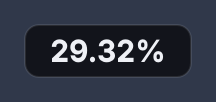
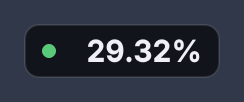
Minimal mode: add the status dot
The percentage pill now shows the same status dot as the full card -
green when tracking confidently, amber when unsure or analysing, grey
while waiting for the game or paused, red on errors - and the tooltip
names the status.

Claude-Session: https://claude.ai/code/session_013ixSXxqaMeMT4BQzsYreYN

Changed region(s): [[0.1667, 0.3824, 0.8333, 0.6176], [0.8333, 0.2353, 0.9167, 0.7647], [0.0833, 0.2353, 0.1667, 0.7647]]

diff --git a/wsync/widget.py b/wsync/widget.py
@@ -309,26 +309,28 @@ class SyncWindow(QWidget):
         f.setBold(True)
         return f
 
-    def _minimal_text(self) -> tuple[str, QColor]:
-        """'12.34%' and its colour: white while tracking, dimmed while waiting
-        or paused, amber while analysing, red when something's wrong."""
+    def _minimal_text(self) -> tuple[str, QColor, QColor]:
+        """'12.34%', its colour, and the status dot's colour — the same dot as
+        on the full card: green confident, amber unsure / analysing, grey
+        waiting for the game or paused, red when something's wrong."""
         g = self.game
+        _, _, _, dot, frac, _, _ = self._lines()
         if g is None:
-            return "–", MUTED
+            return "–", MUTED, dot
         if self.index_info is not None:
-            return f"{self.index_info[1] * 100:.0f}%", AMBER
+            return f"{self.index_info[1] * 100:.0f}%", AMBER, dot
         if not g.ready:
-            return "!", RED
-        frac = self._lines()[4]
-        st = self.live.get("status", "")
-        col = RED if st == "error" else TEXT if st in ("tracking", "updated") else MUTED
-        return f"{frac * 100:.2f}%", col
+            return "!", RED, dot
+        return f"{frac * 100:.2f}%", TEXT, dot
+
+    def _minimal_dot(self, fm: QFontMetrics) -> int:
+        return max(7, round(fm.height() * 0.38))
 
     def _resize(self):
         if self._minimal():
             fm = QFontMetrics(self._minimal_font())
             # sized for the widest value so the pill doesn't twitch as it counts
-            w = fm.horizontalAdvance("100.00%") + 2 * 9
+            w = 9 + self._minimal_dot(fm) + 7 + fm.horizontalAdvance("100.00%") + 9
             h = fm.height() + 2 * 4
             if self.size().width() != w or self.size().height() != h:
                 self.setFixedSize(w, h)
@@ -362,10 +364,17 @@ class SyncWindow(QWidget):
 
         if self._minimal():
             self._thumb_rect = QRect()
-            text, col = self._minimal_text()
-            p.setFont(self._minimal_font())
+            text, col, dcol = self._minimal_text()
+            f = self._minimal_font()
+            fm = QFontMetrics(f)
+            d = self._minimal_dot(fm)
+            p.setPen(Qt.NoPen)
+            p.setBrush(dcol)
+            p.drawEllipse(QRectF(9, (self.height() - d) / 2, d, d))
+            p.setFont(f)
             p.setPen(col)
-            p.drawText(self.rect(), Qt.AlignCenter, text)
+            p.drawText(QRect(9 + d + 7, 0, self.width() - (9 + d + 7) - 9, self.height()),
+                       Qt.AlignRight | Qt.AlignVCenter, text)
             p.end()
             return
 
@@ -533,7 +542,7 @@ class SyncWindow(QWidget):
         g = self.game
         if g is None:
             return ""
-        parts = [g.meta.get("title", g.name)]
+        parts = [g.meta.get("title", g.name), self._lines()[2]]
         if self.live.get("position") is not None:
             parts.append(f"Best guess {C.fmt_time(self.live['position'])} "
                          f"(±{self.live.get('spread', 0):.0f}s), "

diff --git a/README.md b/README.md
@@ -14,7 +14,7 @@ believable pace and waits for the next landmark.
 <p align="center">
   <img src="docs/card.png" width="363" alt="The widget: a progress ring at 29%, the game name, 2:18:54 / 7:53:40 and a green 'Tracking · confident' status">
   &nbsp;&nbsp;
-  <img src="docs/minimal.png" width="108" alt="Minimal mode: just 29.32%">
+  <img src="docs/minimal.png" width="122" alt="Minimal mode: a green status dot and 29.32%">
   <br><sub>The card, and <i>Minimal (percentage only)</i> from the right-click menu</sub>
 </p>
 
@@ -52,8 +52,9 @@ Run **`install_startup.bat`** if you want it to start with Windows.
 * **Donut** — percentage through the walkthrough. Then your position, and a status dot:
   green *confident*, amber *fairly sure / searching*, grey *waiting / paused*.
 * **Minimal (percentage only)** (right-click): shrinks the widget to a small
-  pill showing just *12.34%* — white while tracking, dimmed while waiting or
-  paused, amber while a walkthrough is being analysed. Hover for details.
+  pill showing just *12.34%* and the status dot (green confident, amber unsure
+  or analysing, grey waiting for the game or paused, red on errors). Hover for
+  details.
 * **Progress text** (right-click): the line under the name shows your position
   (*2:15:34 / 7:53:40*), the walkthrough time remaining (*5:38:06 left*), or no
   time; tick *Percentage* to add *29.3%*. With both off the line disappears.
